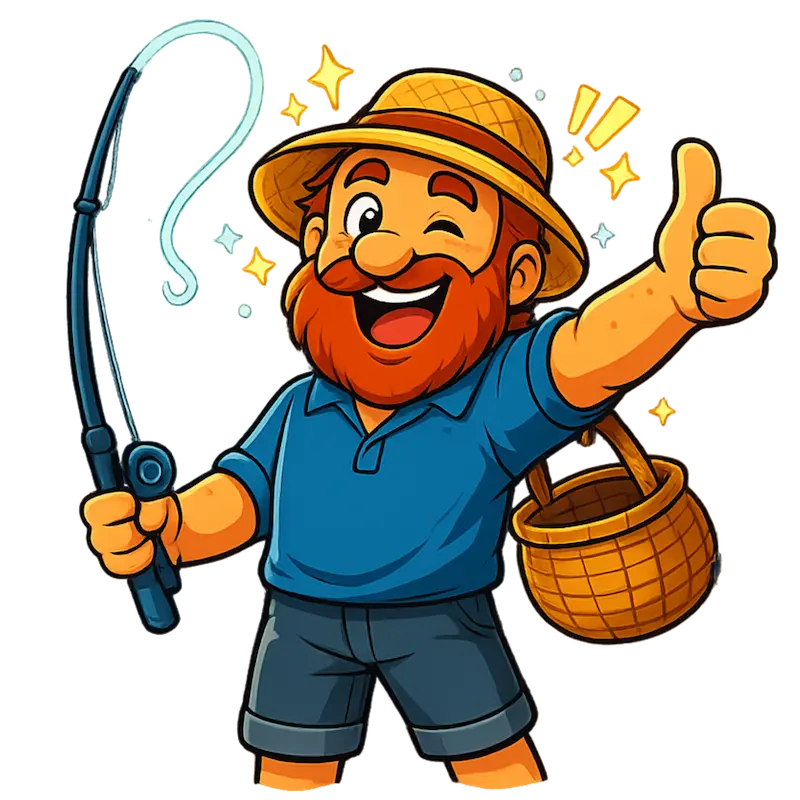
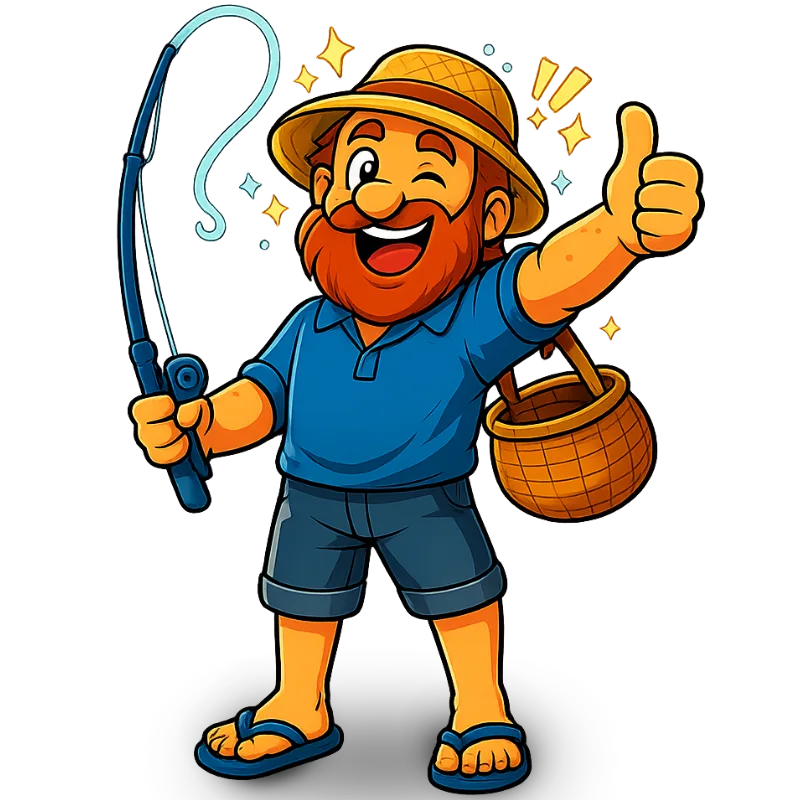
feat: troca de mascote

diff --git a/index.html b/index.html
@@ -4576,7 +4576,7 @@ footer { background:#060c18; color:rgba(255,255,255,.48); padding:64px 0 40px; }
           <div class="mascote-img-c" style="position:relative;z-index:2;width:400px;height:400px;filter:drop-shadow(0 24px 64px rgba(10,126,226,.65)) drop-shadow(0 0 28px rgba(255,222,89,.3))">
             <picture>
               <source srcset="img/mascote.webp" type="image/webp">
-              <img src="img/mascote.webp" style="width:100%;height:100%;object-fit:contain" alt="Gasturinha — Mascote Conecte Telecom" loading="eager" decoding="async">
+              <img src="img/mascote-hero.png" style="width:100%;height:100%;object-fit:contain" alt="Gasturinha — Mascote Conecte Telecom" loading="eager" decoding="async">
             </picture>
           </div>
           <!-- Badge único com destaque -->